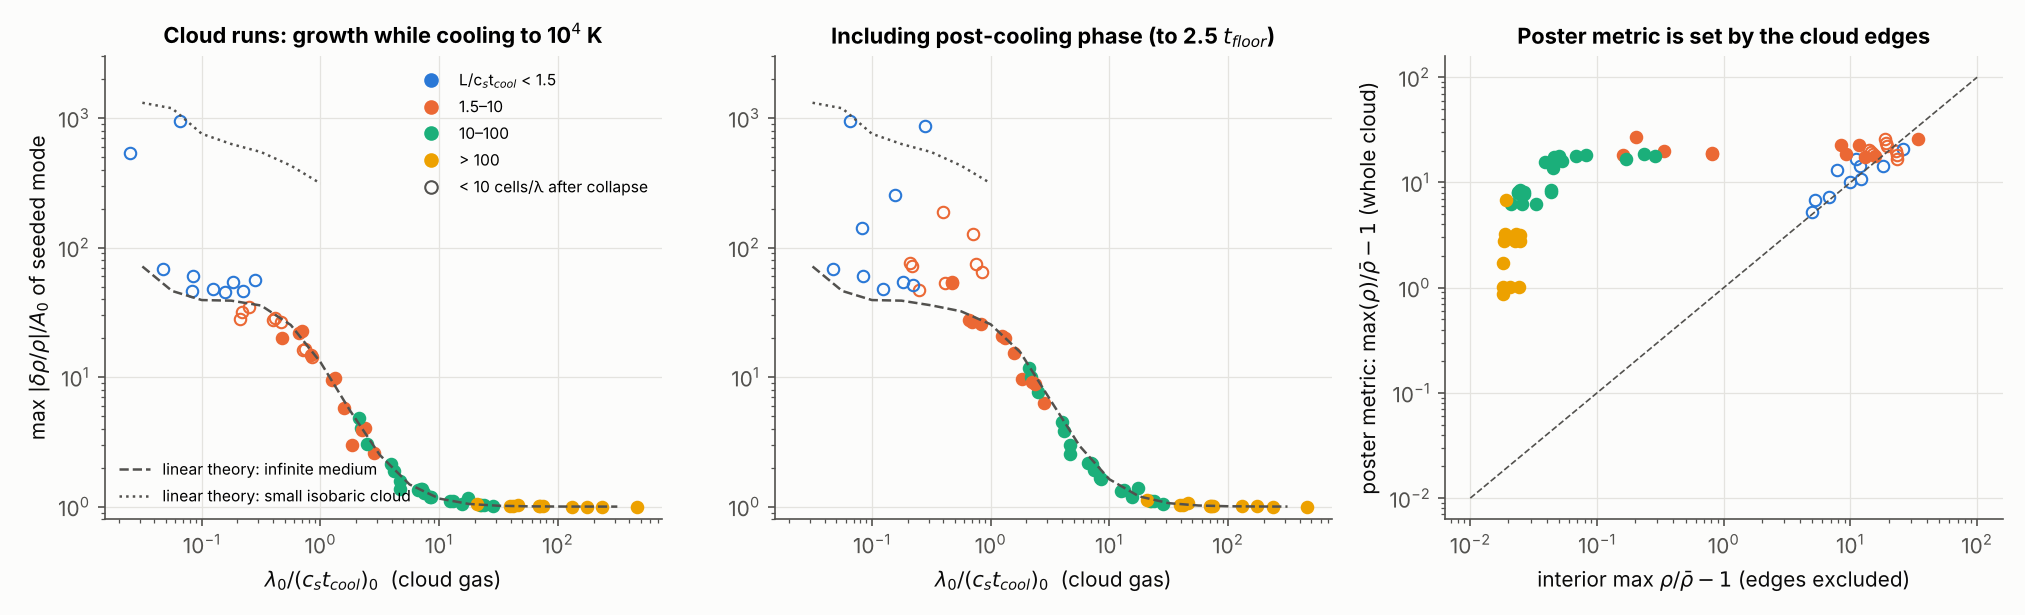
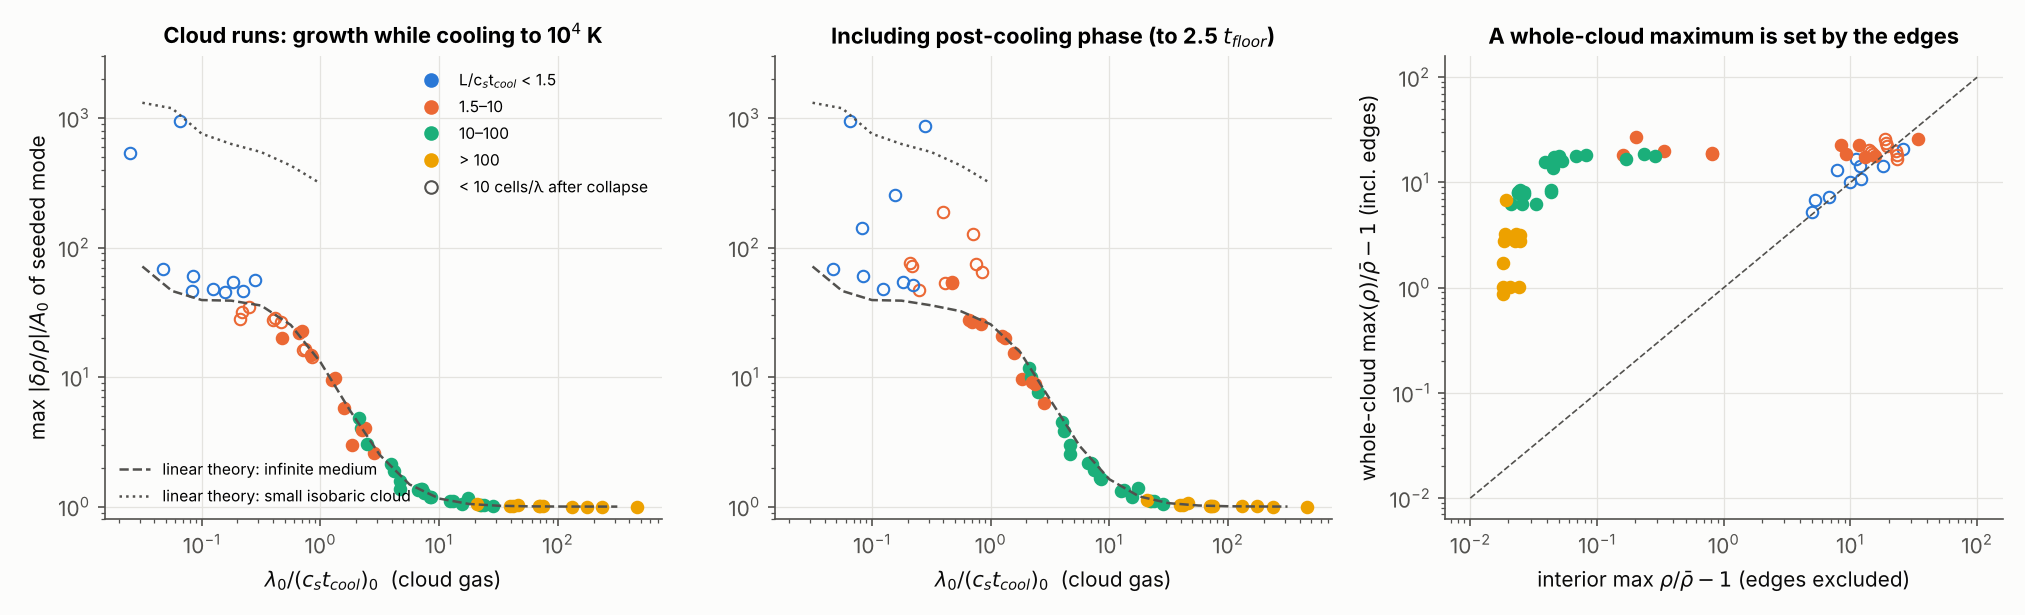
Revise report: student's interior/central max is a valid diagnostic
Replace the edge-contamination critique (she already measures the cloud
interior) with the actual driver of her growth: the cloud density contrast
sets c_s t_cool, and at chi ~ 1.3 the poster's wavelengths are in the
growing range.

Claude-Session: https://claude.ai/code/session_013ncLNAekGpQH8Wdgfujx6v

diff --git a/results/report.html b/results/report.html
@@ -111,10 +111,12 @@ below. The repository README (<code>astromcquinn/1DHydrodynamics</code>, branch
    x ~ 1–10). In small clouds, by contrast, most of the structure is transient:
    once all the gas sits at 10⁴ K at the same pressure, the density evens out
    again.
-7. <strong>The poster's diagnostic, max(ρ)/ρ̄ − 1 over the whole cloud, measures the
-   cloud edges, not the perturbation.</strong> The edges are compressed when the cloud
-   loses pressure support. In our runs that metric is typically 3–25 (median 15)
-   even when the interior mode has not grown at all (Fig. 6, right).</p>
+7. <strong>Measure the cloud interior, as the student does.</strong> A maximum taken over the
+   whole cloud would be dominated by the edges, which are compressed when the
+   cloud loses pressure support (3–25 in our runs even when nothing grows
+   inside; Fig. 6, right). Her central maximum avoids that. In our runs the
+   interior maximum and the projection onto the seeded mode agree in the
+   linear phase.</p>
 <h2>2. Setup used here</h2>
 <ul>
 <li><strong>Cloud.</strong> Tophat of length L and density χ n_bg, with T = T_bg/χ (pressure
@@ -245,18 +247,21 @@ A₀ = 0.1, so quote it as a lower limit there.</p>
 <p>These are meant as concrete suggestions for the student; several of them change
 how the existing results should be read.</p>
 <ol>
-<li><strong>The poster's clouds sit deep in the isochoric regime, where linear theory
-   predicts no density growth.</strong> At n_bg = 0.01–0.02 and T ≈ 10⁶ K, c_s t_cool of
-   the cloud gas is ~0.2–6 kpc, but L = 30–200 kpc and λ ≈ 7–30 kpc. So x ≫ 1
-   and the seeded mode should barely change while the cloud cools, which is what
-   we find (Fig. 6, yellow and green points). The growth on the poster has to
-   come from somewhere else; see the next point.</li>
-<li><strong>The diagnostic.</strong> max(ρ)/ρ̄ − 1 over the cloud is dominated by the
-   compressed edges once the cloud loses pressure support. It also depends on
-   how "the cloud" is defined as it shrinks, and on the mean density, which
-   evolves. Measure the amplitude of the seeded mode instead: project onto the
-   mode in mass coordinate, over the cloud interior. <code>plutorun.Run.analyse</code>
-   does exactly this and can be reused.</li>
+<li><strong>Whether the poster's clouds can grow depends mostly on the density
+   contrast χ.</strong> At n_bg = 0.01–0.02 and T_bg ≈ 10⁶ K, the cooling length
+   c_s t_cool of the cloud gas is only 0.2–1.4 kpc for χ = 2, but ~2–6 kpc for
+   χ ≈ 1.3. With λ ≈ 7–30 kpc that is x ≫ 1 (no growth) for χ = 2, but x ~ 2–5
+   for χ ≈ 1.3, where we do find growth. For example, χ = 1.3, Z = 0.1,
+   n_bg = 0.01, L = 50 kpc gives ×3 while cooling and ×10 including the
+   post-cooling phase (Fig. 6). That is the same order as the poster's Fig. 6,
+   so her measured growth looks physical. Most of it comes after the gas reaches
+   10⁴ K.</li>
+<li><strong>The diagnostic.</strong> Her central/interior maximum is the right idea. Two
+   refinements help: measure in the mass coordinate, since the cloud shrinks
+   and the "interior" moves; and project onto the seeded mode, which separates
+   it from harmonics and from waves launched at the edges once they reach the
+   interior. <code>plutorun.Run.analyse</code> does both and returns the interior maximum
+   too (<code>amp_max</code>), so the two can be compared directly.</li>
 <li><strong>Comparing runs at a fixed simulation time.</strong> t_cool differs by large factors
    between the Z, n and χ values on the poster, so at t = 0.1 the runs are at
    very different stages. Plot against the mean cloud temperature, or against

diff --git a/python/make_figures.py b/python/make_figures.py
@@ -286,10 +286,10 @@ def fig_cloud():
     ax[0].set_title("Cloud runs: growth while cooling to 10$^4$ K")
     ax[1].set_title("Including post-cooling phase (to 2.5 $t_{floor}$)")
     ax[2].set_xlabel(r"interior max $\rho/\bar\rho - 1$ (edges excluded)")
-    ax[2].set_ylabel(r"poster metric: max$(\rho)/\bar\rho - 1$ (whole cloud)")
+    ax[2].set_ylabel(r"whole-cloud max$(\rho)/\bar\rho - 1$ (incl. edges)")
     lim = [1e-2, 1e2]
     ax[2].plot(lim, lim, color=INK2, lw=0.8, ls="--")
-    ax[2].set_title("Poster metric is set by the cloud edges")
+    ax[2].set_title("A whole-cloud maximum is set by the edges")
     from matplotlib.lines import Line2D
     h = [Line2D([], [], color=c, marker="o", ls="none", label=lab) for _, _, c, lab in bins]
     h += [Line2D([], [], color=INK2, marker="o", mfc="none", ls="none",

diff --git a/python/plutorun.py b/python/plutorun.py
@@ -212,7 +212,7 @@ class Run:
             ts["amp_max"].append(dr.max() / dr.mean() - 1)
             ts["amp_rms"].append(np.std(dr) / dr.mean())
             ts["size"].append(sel.sum() * dx)
-            # the student's diagnostic: max over the whole cloud incl. edges
+            # max over the whole cloud, edges included (for comparison)
             ts["nmax_over_nmean"].append(rho[sel].max() / nmean - 1)
             if i in prof_idx:
                 profiles.append(np.vstack([rho, prs, T, trc, vx]).astype(np.float32))

diff --git a/results/REPORT.md b/results/REPORT.md
@@ -55,10 +55,12 @@ below. The repository README (`astromcquinn/1DHydrodynamics`, branch
    x ~ 1–10). In small clouds, by contrast, most of the structure is transient:
    once all the gas sits at 10⁴ K at the same pressure, the density evens out
    again.
-7. **The poster's diagnostic, max(ρ)/ρ̄ − 1 over the whole cloud, measures the
-   cloud edges, not the perturbation.** The edges are compressed when the cloud
-   loses pressure support. In our runs that metric is typically 3–25 (median 15)
-   even when the interior mode has not grown at all (Fig. 6, right).
+7. **Measure the cloud interior, as the student does.** A maximum taken over the
+   whole cloud would be dominated by the edges, which are compressed when the
+   cloud loses pressure support (3–25 in our runs even when nothing grows
+   inside; Fig. 6, right). Her central maximum avoids that. In our runs the
+   interior maximum and the projection onto the seeded mode agree in the
+   linear phase.
 
 ## 2. Setup used here
 
@@ -173,18 +175,21 @@ A₀ = 0.1, so quote it as a lower limit there.
 These are meant as concrete suggestions for the student; several of them change
 how the existing results should be read.
 
-1. **The poster's clouds sit deep in the isochoric regime, where linear theory
-   predicts no density growth.** At n_bg = 0.01–0.02 and T ≈ 10⁶ K, c_s t_cool of
-   the cloud gas is ~0.2–6 kpc, but L = 30–200 kpc and λ ≈ 7–30 kpc. So x ≫ 1
-   and the seeded mode should barely change while the cloud cools, which is what
-   we find (Fig. 6, yellow and green points). The growth on the poster has to
-   come from somewhere else; see the next point.
-2. **The diagnostic.** max(ρ)/ρ̄ − 1 over the cloud is dominated by the
-   compressed edges once the cloud loses pressure support. It also depends on
-   how "the cloud" is defined as it shrinks, and on the mean density, which
-   evolves. Measure the amplitude of the seeded mode instead: project onto the
-   mode in mass coordinate, over the cloud interior. `plutorun.Run.analyse`
-   does exactly this and can be reused.
+1. **Whether the poster's clouds can grow depends mostly on the density
+   contrast χ.** At n_bg = 0.01–0.02 and T_bg ≈ 10⁶ K, the cooling length
+   c_s t_cool of the cloud gas is only 0.2–1.4 kpc for χ = 2, but ~2–6 kpc for
+   χ ≈ 1.3. With λ ≈ 7–30 kpc that is x ≫ 1 (no growth) for χ = 2, but x ~ 2–5
+   for χ ≈ 1.3, where we do find growth. For example, χ = 1.3, Z = 0.1,
+   n_bg = 0.01, L = 50 kpc gives ×3 while cooling and ×10 including the
+   post-cooling phase (Fig. 6). That is the same order as the poster's Fig. 6,
+   so her measured growth looks physical. Most of it comes after the gas reaches
+   10⁴ K.
+2. **The diagnostic.** Her central/interior maximum is the right idea. Two
+   refinements help: measure in the mass coordinate, since the cloud shrinks
+   and the "interior" moves; and project onto the seeded mode, which separates
+   it from harmonics and from waves launched at the edges once they reach the
+   interior. `plutorun.Run.analyse` does both and returns the interior maximum
+   too (`amp_max`), so the two can be compared directly.
 3. **Comparing runs at a fixed simulation time.** t_cool differs by large factors
    between the Z, n and χ values on the poster, so at t = 0.1 the runs are at
    very different stages. Plot against the mean cloud temperature, or against
